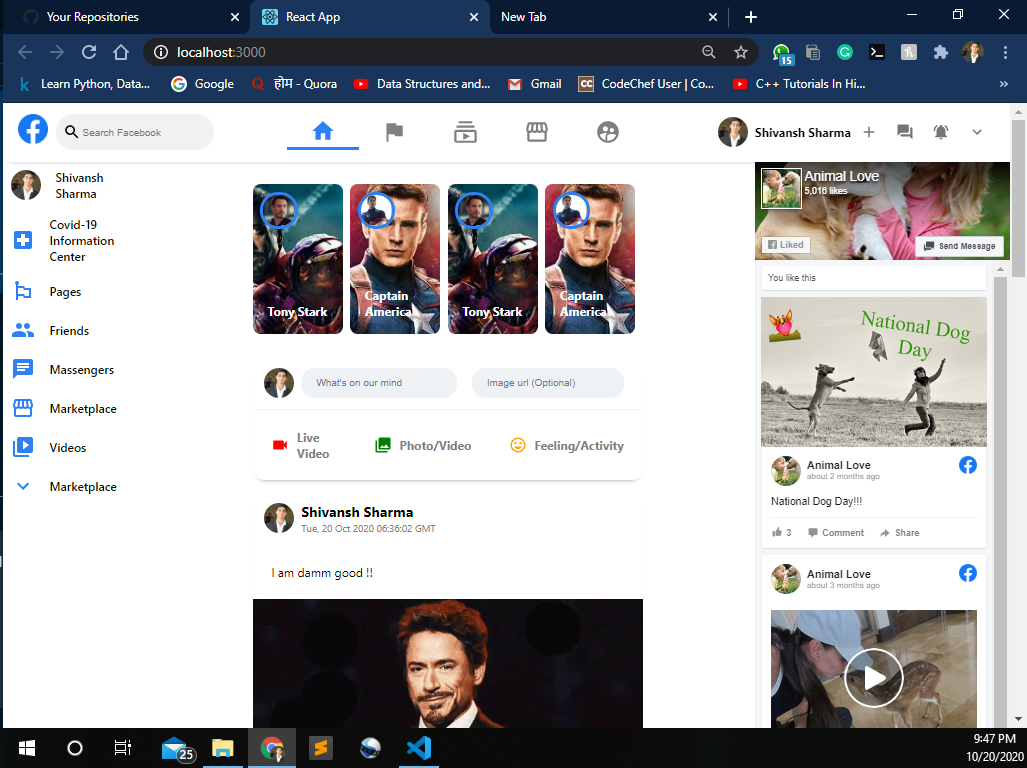
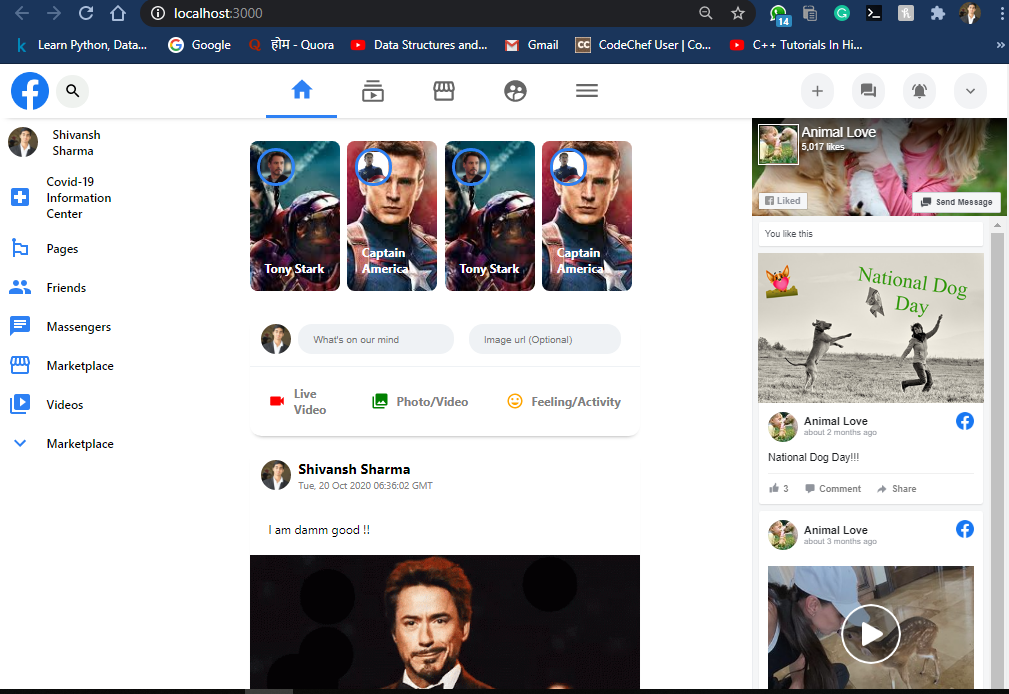
updated to recent released facebook header

diff --git a/src/Header.js b/src/Header.js
@@ -2,7 +2,7 @@ import React from 'react';
 import "./header.css";
 import SearchIcon from "@material-ui/icons/Search";
 import HomeIcon from "@material-ui/icons/Home";
-import FlagIcon from "@material-ui/icons/Flag";
+import DehazeIcon from '@material-ui/icons/Dehaze';
 import SubscriptionsOutlinedIcon from "@material-ui/icons/SubscriptionsOutlined";
 import StorefrontOutlinedIcon from "@material-ui/icons/StorefrontOutlined";
 import SupervisedUserCircleIcon from "@material-ui/icons/SupervisedUserCircle";
@@ -17,15 +17,14 @@ import { useStateValue } from './StateProvider';
 
 function Header() {
 
-    const [{ user }, {dispatch}] = useStateValue();
+    const [{ user }] = useStateValue();
     return <div className = "header">
             
             <div className="header__left">
                 <img src="https://facebookbrand.com/wp-content/uploads/2019/04/f_logo_RGB-Hex-Blue_512.png?w=512&h=512" alt=""/>
                 
                 <div className="header__input">
-                    <SearchIcon />
-                    <input placeholder="Search Facebook" type="text"></input>
+                    <SearchIcon color="black" fontSize="medium"/>
                 </div>
 
             </div>
@@ -34,10 +33,6 @@ function Header() {
 
                 <div className="header__option header__option--active">
                     <HomeIcon fontSize="large" />
-                </div>
-
-                <div className="header__option">
-                    <FlagIcon fontSize="large" />
                 </div>
 
                 <div className="header__option">
@@ -52,27 +47,30 @@ function Header() {
                     <SupervisedUserCircleIcon fontSize="large" />
                 </div>
 
+                <div className="header__option">
+                    <DehazeIcon fontSize="large" />
+                </div>
+
             </div>
             
             <div className="header__right">
-                <div className = "header__info">
+                {/* <div className = "header__info">
                     <Avatar src={user.photoURL}/>
-                    <h4>{user.displayName}</h4>
-                </div>
+                </div> */}
                 <IconButton>
-                    <AddIcon />
+                    <AddIcon fontSize="medium" className="header__rightoption"/>
                 </IconButton>
 
                 <IconButton>
-                    <ForumIcon />
+                    <ForumIcon fontSize="medium" className="header__rightoption"/>
                 </IconButton>
 
                 <IconButton>
-                    <NotificationsActiveIcon />
+                    <NotificationsActiveIcon fontSize="medium" className="header__rightoption"/>
                 </IconButton>
 
                 <IconButton>
-                    <ExpandMoreIcon />
+                    <ExpandMoreIcon fontSize="medium" className="header__rightoption"/>
                 </IconButton>
             </div>
 

diff --git a/src/header.css b/src/header.css
@@ -1,88 +1,94 @@
-.header{
-    padding: 15px 20px;
-    display: flex;
-    justify-content: space-between;
+.header {
+  padding: 0px 15px 0px 15px;
+  display: flex;
+  justify-content: space-between;
 
-    position:sticky;
-    background-color: white;
-    z-index: 100;
-    top:0;
-    box-shadow: 0px 5px 8px -9px rgba(0,0,0,0.75);
-
-    
+  position: sticky;
+  background-color: white;
+  z-index: 100;
+  top: 0;
+  box-shadow: 0px 5px 8px -9px rgba(0, 0, 0, 0.75);
 }
 
-.header__left{
-    display: flex;
-    justify-content: space-evenly;
+.header__left {
+  display: flex;
+  justify-content: space-evenly;
+  align-items: center;
+  padding-right: 10px;
 }
 
-.header__input{
-    display: flex;
-    align-items: center;
-    background-color: #eff2ef;
-    padding:10px;
-    margin-left:10px;
-    border-radius: 999px;
+.header__input {
+  display: flex;
+  align-items: center;
+  background-color: #eff2ef;
+  padding: 10px;
+  margin-left: 10px;
+  border-radius: 999px;
 }
 
-.header__left > img{
-    height: 40px;
+.header__left > img {
+  height: 50px;
 }
 
-.header__input > input{
-    border: none;
-    background-color: transparent;
-    outline-width: 0;
+.header__input > input {
+  border: none;
+  background-color: transparent;
+  outline-width: 0;
 }
 
-.header__center{
-    display: flex;
-    flex:1;
-    justify-content: center;
-
+.header__center {
+  display: flex;
+  flex: 1;
+  justify-content: center;
 }
 
-.header__option > .MuiSvgIcon-root{
-    color:grey;
+.header__option > .MuiSvgIcon-root {
+  color: rgba(0, 0, 0, 0.6);
 }
 
-.header__option:hover .MuiSvgIcon-root{
-    color: #2e81f4;
+.header__option:hover .MuiSvgIcon-root {
+  color: #2e81f4;
 }
 
-.header__option--active > .MuiSvgIcon-root{
-    color: #2e81f4;
+.header__option--active > .MuiSvgIcon-root {
+  color: #2e81f4;
 }
 
-.header__option--active{
-    border-bottom: 4px solid #2e81f4;
+.header__option--active {
+  border-bottom: 4px solid #2e81f4;
 }
 
-.header__option{
-    display: flex;
-    align-items: center;
-    padding: 0 30px;
-    cursor: pointer;
+.header__option {
+  display: flex;
+  align-items: center;
+  padding: 0 30px;
+  cursor: pointer;
 }
 
-.header__option:hover{
-    background-color: #eff2ef;
-    border-radius: 10px;
-    align-items: center;
-    padding: 0 30px;
-    border-bottom: none;
+.header__option:hover {
+  background-color: #eff2ef;
+  border-radius: 10px;
+  align-items: center;
+  padding: 0 30px;
+  border-bottom: none;
 }
 
-.header__info{
-    display:flex;
-    align-items: center;
+.header__info {
+  display: flex;
+  align-items: center;
+  padding: 15px;
 }
 
-.header__info > h4{
-    margin-left: 10px;
+.header__info > h4 {
+  margin-left: 10px;
 }
 
-.header__right{
-    display: flex;
+.header__right {
+  display: flex;
+}
+
+.header__rightoption {
+  border-radius: 999px;
+  background-color: #f2f3f5;
+  padding: 12px 10px 12px 10px;
 }
